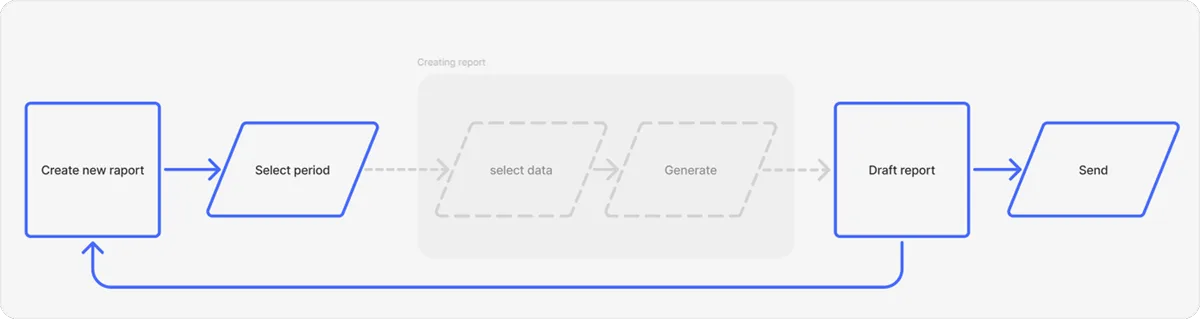
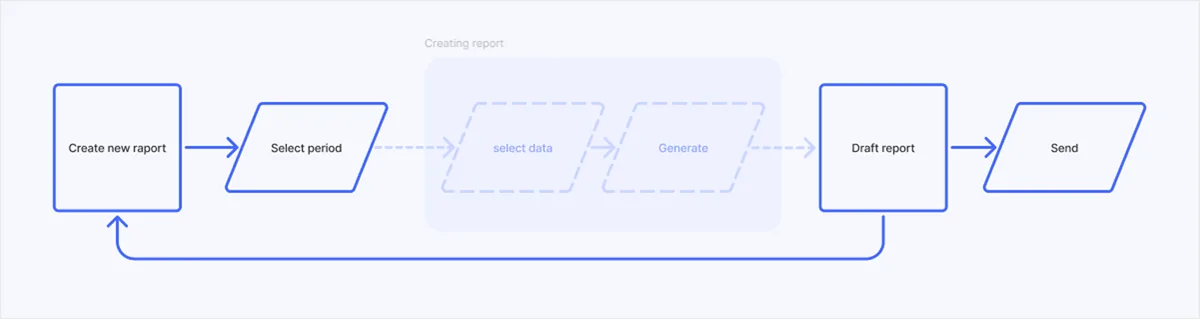
feat(raporty): looped 3-screen carousel for "Co zbudowałam", update assets
- Replace the settings-overlay crossfade (SidebarSettingsSwap, now dead
  code) with a proper looped carousel: each screen slides in from the
  right, cycles 1->2->3->1. Ported from the pre-rebuild page's proven
  ImageCarousel pattern (transition CSS only enabled for current+previous
  slide, otherwise the inactive slide flies across screen on every tick).
  Uses the existing raporty-flow-1/2/3.webp report-wizard screenshots.
- Swap raporty-ds-flow.webp and raporty-ds-reports-manager.webp for
  tighter-cropped source versions.
- Remove the now-unused raporty-section.webp/raporty-settings.webp assets.

diff --git a/src/pages/RaportyCaseStudy.tsx b/src/pages/RaportyCaseStudy.tsx
@@ -208,32 +208,43 @@ function ChapterNav({ chapters }: { chapters: { id: string; label: string }[] })
   )
 }
 
-/** Animated screenshot overlay swap — used for the "kreator" (report builder)
- * preview: a settings-panel overlay fades in/out on top of the base screenshot. */
-function SidebarSettingsSwap({ base, overlay, overlayRect }: { base: string; overlay: string; overlayRect: { top: number; left: number; width: number; height: number } }) {
-  const [showOverlay, setShowOverlay] = useState(false)
+/** Looped slideshow — one screen slides out to the left while the next slides
+ * in from the right, then loops back to the first. The transition CSS is only
+ * enabled for the current and previous slide; otherwise the old "inactive"
+ * slide would animate all the way across the screen on every index change
+ * instead of just waiting off-screen. */
+function ImageCarousel({ images }: { images: string[] }) {
+  const [index, setIndex] = useState(0)
+  const n = images.length
 
   useEffect(() => {
-    const id = setInterval(() => setShowOverlay((v) => !v), 2200)
+    const id = setInterval(() => setIndex((i) => (i + 1) % n), 2800)
     return () => clearInterval(id)
-  }, [])
+  }, [n])
+
+  const prevIndex = (index - 1 + n) % n
 
   return (
-    <div className="relative w-full rounded-2xl shadow-xl overflow-hidden" style={{ aspectRatio: "16/9" }}>
-      <img src={base} alt="" className="absolute inset-0 w-full h-full object-cover" style={{ objectPosition: "top" }} />
-      <img
-        src={overlay}
-        alt=""
-        className="absolute object-cover"
-        style={{
-          top: `${overlayRect.top}%`,
-          left: `${overlayRect.left}%`,
-          width: `${overlayRect.width}%`,
-          height: `${overlayRect.height}%`,
-          opacity: showOverlay ? 1 : 0,
-          transition: "opacity 0.5s ease",
-        }}
-      />
+    <div className="relative w-full rounded-2xl shadow-xl overflow-hidden" style={{ aspectRatio: "1000/557" }}>
+      {images.map((src, i) => {
+        const isCurrent = i === index
+        const isPrev = i === prevIndex
+        const translate = isCurrent ? "0%" : isPrev ? "-100%" : "100%"
+        return (
+          <img
+            key={src}
+            src={src}
+            alt=""
+            className="absolute inset-0 w-full h-full object-cover"
+            style={{
+              objectPosition: "center top",
+              transition: isCurrent || isPrev ? "transform 0.6s ease" : "none",
+              transform: `translateX(${translate})`,
+              zIndex: isCurrent ? 1 : 0,
+            }}
+          />
+        )
+      })}
     </div>
   )
 }
@@ -551,11 +562,7 @@ export function RaportyCaseStudy() {
               <h3 className="pf-h3">{t.decyzje.builtTitle}</h3>
               <p className="pf-body" style={{ margin: 0 }}>{t.decyzje.builtText}</p>
               <div style={{ width: "100%", borderRadius: 24, background: "var(--pf-surface-accent)", padding: 48, boxSizing: "border-box" }}>
-                <SidebarSettingsSwap
-                  base="/raporty-section.webp"
-                  overlay="/raporty-settings.webp"
-                  overlayRect={{ top: 6.91, left: 0, width: 17.78, height: 109.6 }}
-                />
+                <ImageCarousel images={["/raporty-flow-1.webp", "/raporty-flow-2.webp", "/raporty-flow-3.webp"]} />
               </div>
             </div>
           </Reveal>
